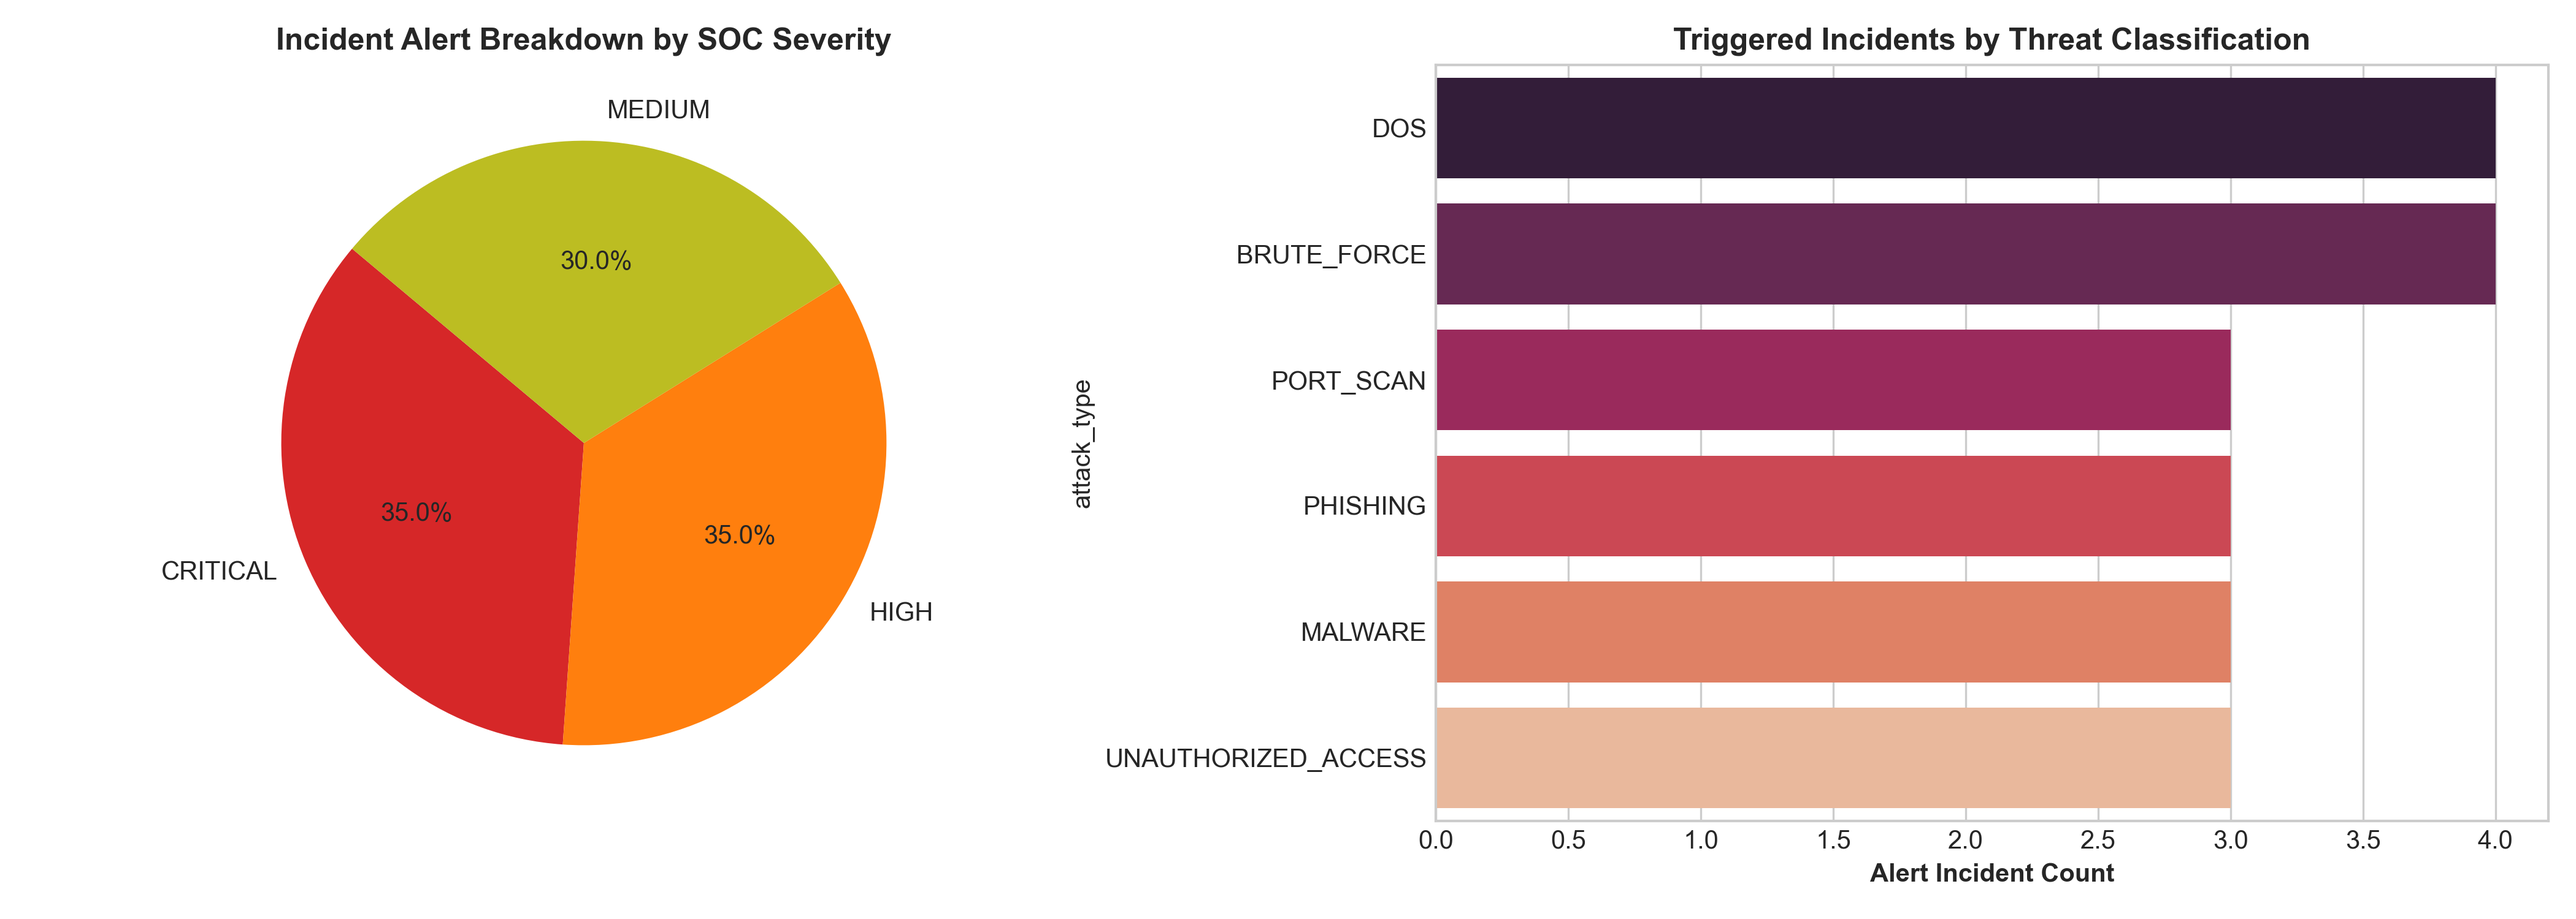
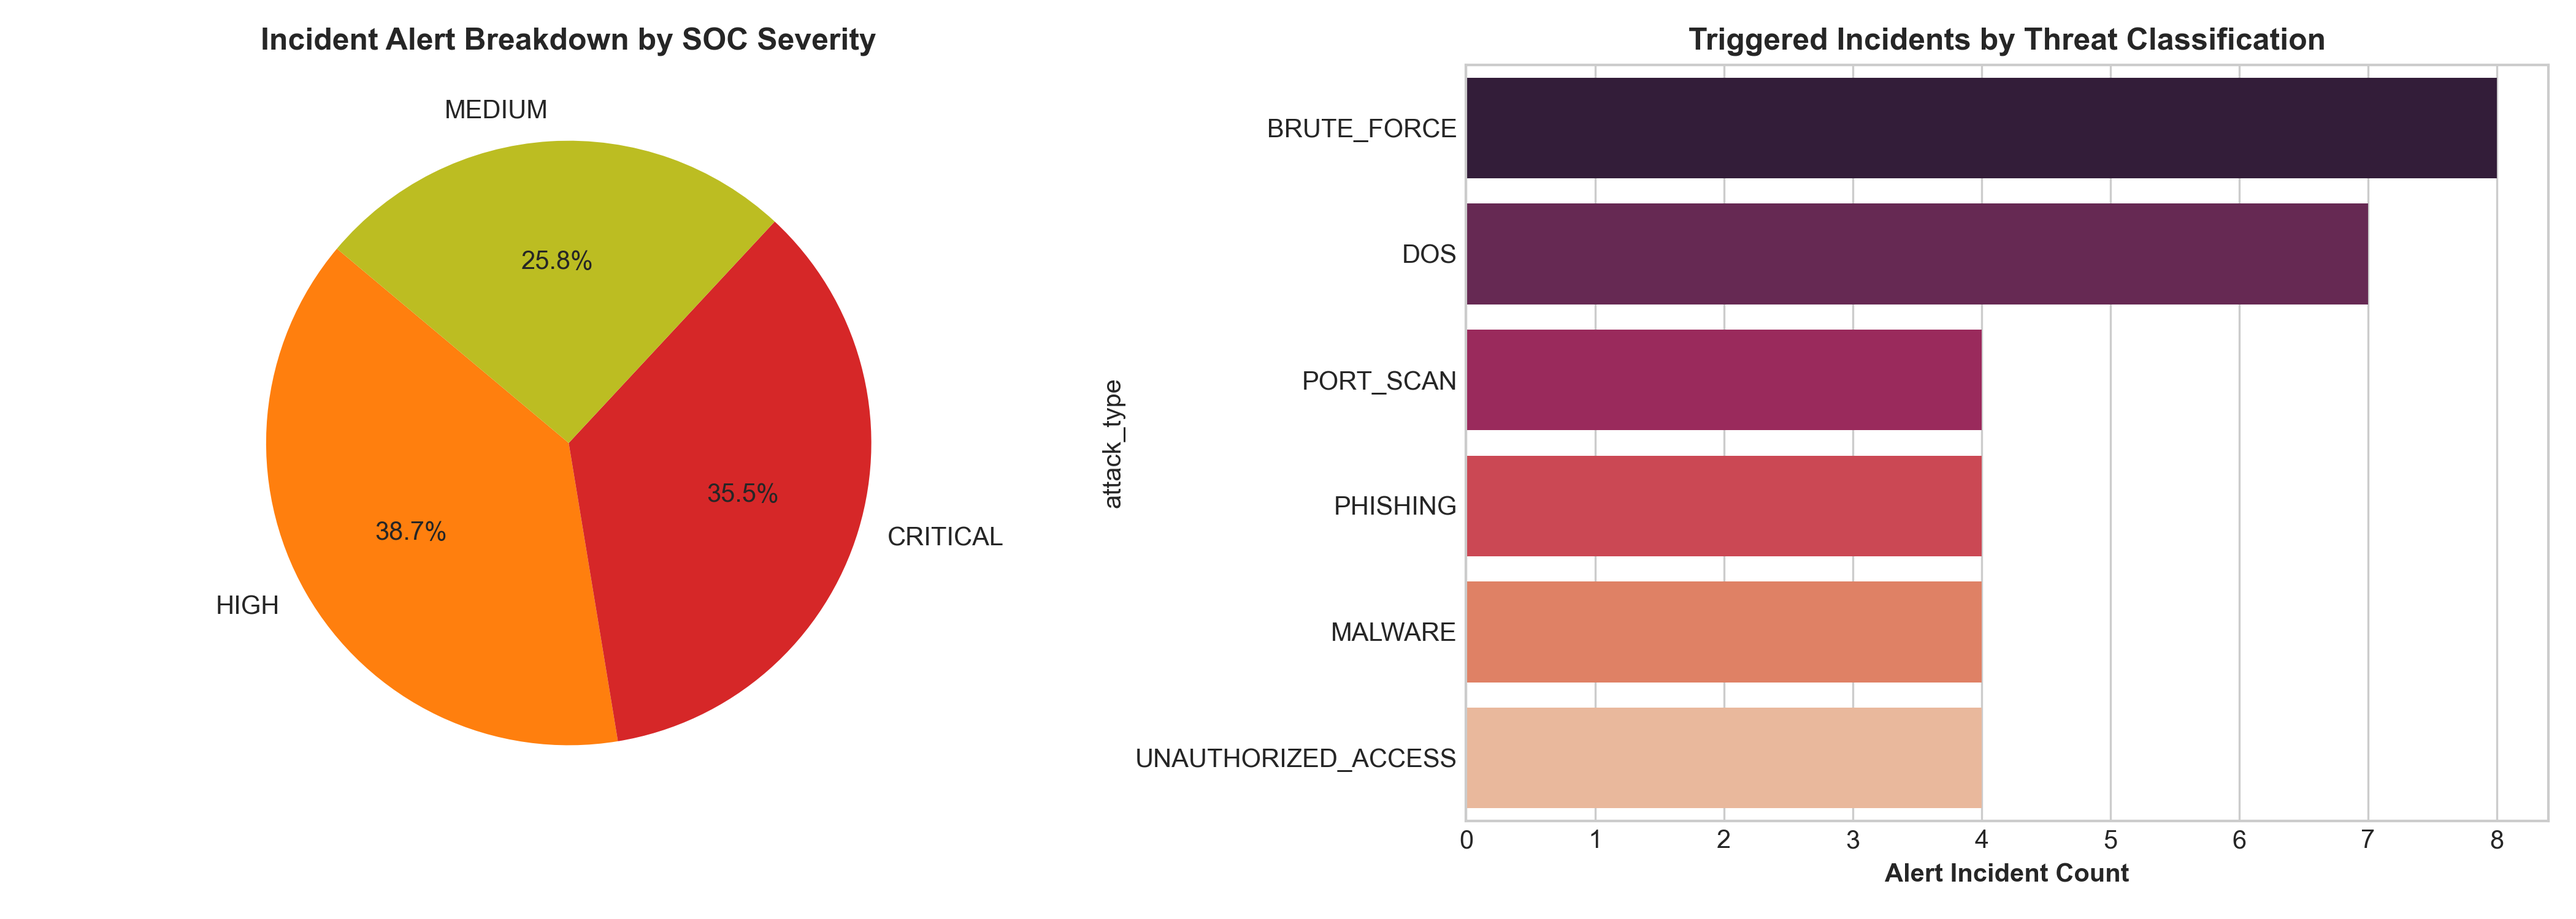
chore: save model metadata, evaluation reports, and updated proof assets

diff --git a/outputs/dashboard.html b/outputs/dashboard.html
@@ -152,7 +152,7 @@
         </div>
         <div class="metric-card alert">
             <div class="metric-label">Active Incidents</div>
-            <div class="metric-value">24</div>
+            <div class="metric-value">34</div>
             <div class="metric-sub">Logged to alerts.jsonl / CSV</div>
         </div>
     </div>
@@ -195,7 +195,7 @@
                             </tr>
                         </thead>
                         <tbody>
-                            <tr><td style="font-family:'JetBrains Mono',monospace">2026-10-16 16:44:06</td><td><span class="sev-pill sev-HIGH">HIGH</span></td><td style="font-weight:600">BRUTE_FORCE</td><td style="font-family:'JetBrains Mono',monospace">1.00</td><td style="font-family:'JetBrains Mono',monospace">127.0.0.1</td><td style="font-family:'JetBrains Mono',monospace">Protected-API-Endpoint</td><td style="font-size:12px">Lock targeted account, enforce MFA challenge, and add IP to temporary fail2ban jail</td></tr><tr><td style="font-family:'JetBrains Mono',monospace">2026-10-16 16:42:59</td><td><span class="sev-pill sev-HIGH">HIGH</span></td><td style="font-weight:600">BRUTE_FORCE</td><td style="font-family:'JetBrains Mono',monospace">1.00</td><td style="font-family:'JetBrains Mono',monospace">127.0.0.1</td><td style="font-family:'JetBrains Mono',monospace">Protected-API-Endpoint</td><td style="font-size:12px">Lock targeted account, enforce MFA challenge, and add IP to temporary fail2ban jail</td></tr><tr><td style="font-family:'JetBrains Mono',monospace">2026-10-16 16:42:32</td><td><span class="sev-pill sev-CRITICAL">CRITICAL</span></td><td style="font-weight:600">DOS</td><td style="font-family:'JetBrains Mono',monospace">1.00</td><td style="font-family:'JetBrains Mono',monospace">127.0.0.1</td><td style="font-family:'JetBrains Mono',monospace">Protected-API-Endpoint</td><td style="font-size:12px">Rate-limit traffic and block source IP at edge firewall (Null-route / BGP Flowspec)</td></tr><tr><td style="font-family:'JetBrains Mono',monospace">2026-10-16 16:42:32</td><td><span class="sev-pill sev-HIGH">HIGH</span></td><td style="font-weight:600">BRUTE_FORCE</td><td style="font-family:'JetBrains Mono',monospace">1.00</td><td style="font-family:'JetBrains Mono',monospace">127.0.0.1</td><td style="font-family:'JetBrains Mono',monospace">Protected-API-Endpoint</td><td style="font-size:12px">Lock targeted account, enforce MFA challenge, and add IP to temporary fail2ban jail</td></tr><tr><td style="font-family:'JetBrains Mono',monospace">2026-10-16 16:42:28</td><td><span class="sev-pill sev-CRITICAL">CRITICAL</span></td><td style="font-weight:600">UNAUTHORIZED_ACCESS</td><td style="font-family:'JetBrains Mono',monospace">1.00</td><td style="font-family:'JetBrains Mono',monospace">203.0.113.89</td><td style="font-family:'JetBrains Mono',monospace">192.168.1.5</td><td style="font-size:12px">Terminate active session, revoke privileges, force password reset, escalate to Tier-3 SOC</td></tr><tr><td style="font-family:'JetBrains Mono',monospace">2026-10-16 16:42:28</td><td><span class="sev-pill sev-HIGH">HIGH</span></td><td style="font-weight:600">MALWARE</td><td style="font-family:'JetBrains Mono',monospace">1.00</td><td style="font-family:'JetBrains Mono',monospace">192.168.1.15</td><td style="font-family:'JetBrains Mono',monospace">185.220.101.88</td><td style="font-size:12px">Isolate compromised endpoint from corporate LAN, kill offending PID, dump memory for forensics</td></tr><tr><td style="font-family:'JetBrains Mono',monospace">2026-10-16 16:42:28</td><td><span class="sev-pill sev-MEDIUM">MEDIUM</span></td><td style="font-weight:600">PHISHING</td><td style="font-family:'JetBrains Mono',monospace">1.00</td><td style="font-family:'JetBrains Mono',monospace">192.168.1.105</td><td style="font-family:'JetBrains Mono',monospace">198.51.100.82</td><td style="font-size:12px">Add malicious URL/domain to Secure Web Gateway blacklist and quarantine related emails</td></tr><tr><td style="font-family:'JetBrains Mono',monospace">2026-10-16 16:42:28</td><td><span class="sev-pill sev-MEDIUM">MEDIUM</span></td><td style="font-weight:600">PORT_SCAN</td><td style="font-family:'JetBrains Mono',monospace">1.00</td><td style="font-family:'JetBrains Mono',monospace">185.220.101.44</td><td style="font-family:'JetBrains Mono',monospace">192.168.1.10</td><td style="font-size:12px">Drop reconnaissance packets and flag source IP in Threat Intelligence watch-list</td></tr>
+                            <tr><td style="font-family:'JetBrains Mono',monospace">2026-10-16 16:58:52</td><td><span class="sev-pill sev-HIGH">HIGH</span></td><td style="font-weight:600">BRUTE_FORCE</td><td style="font-family:'JetBrains Mono',monospace">1.00</td><td style="font-family:'JetBrains Mono',monospace">127.0.0.1</td><td style="font-family:'JetBrains Mono',monospace">Protected-API-Endpoint</td><td style="font-size:12px">Lock targeted account, enforce MFA challenge, and add IP to temporary fail2ban jail</td></tr><tr><td style="font-family:'JetBrains Mono',monospace">2026-10-16 16:57:50</td><td><span class="sev-pill sev-CRITICAL">CRITICAL</span></td><td style="font-weight:600">DOS</td><td style="font-family:'JetBrains Mono',monospace">1.00</td><td style="font-family:'JetBrains Mono',monospace">127.0.0.1</td><td style="font-family:'JetBrains Mono',monospace">Protected-API-Endpoint</td><td style="font-size:12px">Rate-limit traffic and block source IP at edge firewall (Null-route / BGP Flowspec)</td></tr><tr><td style="font-family:'JetBrains Mono',monospace">2026-10-16 16:57:50</td><td><span class="sev-pill sev-HIGH">HIGH</span></td><td style="font-weight:600">BRUTE_FORCE</td><td style="font-family:'JetBrains Mono',monospace">1.00</td><td style="font-family:'JetBrains Mono',monospace">127.0.0.1</td><td style="font-family:'JetBrains Mono',monospace">Protected-API-Endpoint</td><td style="font-size:12px">Lock targeted account, enforce MFA challenge, and add IP to temporary fail2ban jail</td></tr><tr><td style="font-family:'JetBrains Mono',monospace">2026-10-16 16:57:46</td><td><span class="sev-pill sev-CRITICAL">CRITICAL</span></td><td style="font-weight:600">UNAUTHORIZED_ACCESS</td><td style="font-family:'JetBrains Mono',monospace">1.00</td><td style="font-family:'JetBrains Mono',monospace">203.0.113.89</td><td style="font-family:'JetBrains Mono',monospace">192.168.1.5</td><td style="font-size:12px">Terminate active session, revoke privileges, force password reset, escalate to Tier-3 SOC</td></tr><tr><td style="font-family:'JetBrains Mono',monospace">2026-10-16 16:57:46</td><td><span class="sev-pill sev-HIGH">HIGH</span></td><td style="font-weight:600">MALWARE</td><td style="font-family:'JetBrains Mono',monospace">1.00</td><td style="font-family:'JetBrains Mono',monospace">192.168.1.15</td><td style="font-family:'JetBrains Mono',monospace">185.220.101.88</td><td style="font-size:12px">Isolate compromised endpoint from corporate LAN, kill offending PID, dump memory for forensics</td></tr><tr><td style="font-family:'JetBrains Mono',monospace">2026-10-16 16:57:46</td><td><span class="sev-pill sev-MEDIUM">MEDIUM</span></td><td style="font-weight:600">PHISHING</td><td style="font-family:'JetBrains Mono',monospace">1.00</td><td style="font-family:'JetBrains Mono',monospace">192.168.1.105</td><td style="font-family:'JetBrains Mono',monospace">198.51.100.82</td><td style="font-size:12px">Add malicious URL/domain to Secure Web Gateway blacklist and quarantine related emails</td></tr><tr><td style="font-family:'JetBrains Mono',monospace">2026-10-16 16:57:46</td><td><span class="sev-pill sev-MEDIUM">MEDIUM</span></td><td style="font-weight:600">PORT_SCAN</td><td style="font-family:'JetBrains Mono',monospace">1.00</td><td style="font-family:'JetBrains Mono',monospace">185.220.101.44</td><td style="font-family:'JetBrains Mono',monospace">192.168.1.10</td><td style="font-size:12px">Drop reconnaissance packets and flag source IP in Threat Intelligence watch-list</td></tr><tr><td style="font-family:'JetBrains Mono',monospace">2026-10-16 16:57:45</td><td><span class="sev-pill sev-HIGH">HIGH</span></td><td style="font-weight:600">BRUTE_FORCE</td><td style="font-family:'JetBrains Mono',monospace">1.00</td><td style="font-family:'JetBrains Mono',monospace">194.26.29.14</td><td style="font-family:'JetBrains Mono',monospace">192.168.1.22</td><td style="font-size:12px">Lock targeted account, enforce MFA challenge, and add IP to temporary fail2ban jail</td></tr>
                         </tbody>
                     </table>
                 </div>
